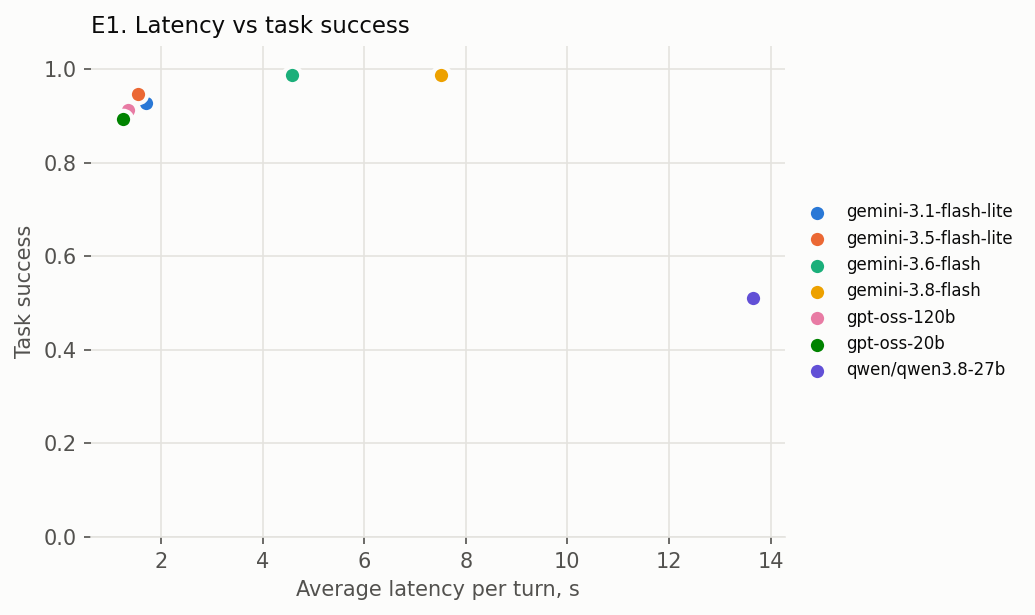
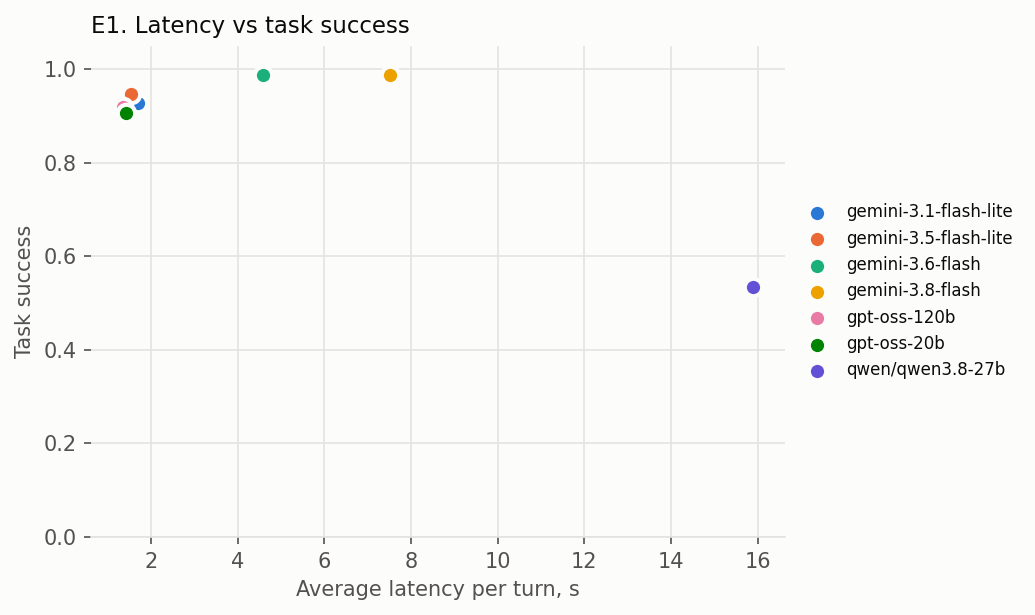
E1: complete the Groq repeat (gpt-oss 74/74, qwen 71/74)
Free-tier daily limits split the run over two days; qwen stopped before
O-03..O-05 because Groq delayed its responses by minutes. Summaries, charts
and the results README updated.

diff --git a/BookingSystem.Evaluation/results/README.md b/BookingSystem.Evaluation/results/README.md
@@ -108,7 +108,7 @@ dotnet run --project BookingSystem.Evaluation -- rescore
 
 74 сценарії (simple 15, incomplete 12, constraints 10, multi-turn 10, faq 10, relative-dates 6, booking 6,
 out-of-scope 5), `temperature = 0.2`, `MaxAgentIterations = 5`, slot filling увімкнено, той самий системний промпт.
-Gemini — платний Tier 1 через OpenAI-сумісний ендпоінт, 3 повтори; Groq — free tier, 1 повтор.
+Gemini — платний Tier 1 через OpenAI-сумісний ендпоінт, 3 повтори; Groq — free tier, 1 повтор (прогін 18–19.11).
 Інструмент `search_rental_policies` працював у режимі `HybridAdaptive` (v2); для експериментів режим закріплено в
 `BookingSystem.Evaluation/appsettings.json`, тож зміна режиму на сайті на них не впливає.
 Ціни (`Ai:Pricing`, перевірено 2026-11-18): 3.8-flash і 3.6-flash — $0.75 / $3.75, 3.5-flash-lite — $0.30 / $2.50,
@@ -120,9 +120,9 @@ Gemini — платний Tier 1 через OpenAI-сумісний ендпоі
 | gemini-3.6-flash | 3 | 74 | **0.986 ± 0.000** | 0.986 ± 0.000 | 1.000 ± 0.000 | 1.000 ± 0.000 | 4.6 / 6.6 | 5 318 | 0.0071 |
 | gemini-3.5-flash-lite | 3 | 74 | 0.946 ± 0.000 | 0.973 ± 0.000 | 0.963 ± 0.000 | 1.000 ± 0.000 | 1.5 / 2.3 | 4 652 | 0.0021 |
 | gemini-3.1-flash-lite | 3 | 74 | 0.928 ± 0.008 | 0.968 ± 0.008 | 0.957 ± 0.000 | 0.972 ± 0.048 | 1.7 / 2.4 | 4 586 | 0.0016 |
-| gpt-oss-120b | 1 | 69 | 0.913 | 0.957 | 0.938 | 1.000 | 1.4 / 2.6 | 4 355 | 0 (free tier) |
-| gpt-oss-20b | 1 | 66 | 0.894 | 0.955 | 0.910 | 1.000 | 1.2 / 2.5 | 4 157 | 0 (free tier) |
-| qwen3.8-27b | 1 | 49 | 0.510 | 0.510 | 0.445 | 1.000 | 13.7 / 15.7 (медіана 0.8) | 3 694 | 0 (free tier) |
+| gpt-oss-120b | 1 | 74 | 0.919 | 0.959 | 0.938 | 1.000 | 1.3 / 2.7 | 4 221 | 0 (free tier) |
+| gpt-oss-20b | 1 | 74 | 0.905 | 0.959 | 0.913 | 1.000 | 1.4 / 3.0 | 4 137 | 0 (free tier) |
+| qwen3.8-27b | 1 | 71 | 0.535 | 0.549 | 0.422 | 1.000 | 15.9 / 55.3 (медіана 1.0) | 3 834 | 0 (free tier) |
 
 `± std` — стандартне відхилення за повторами (для 1 повтору не визначене). Invalid Call Rate (виконані виклики з
 невалідними аргументами) = 0 для всіх моделей: зі slot filling такі виклики перехоплюються до виконання.
@@ -136,19 +136,20 @@ Gemini — платний Tier 1 через OpenAI-сумісний ендпоі
 | gemini-3.6-flash | 1.00 | 1.00 | 1.00 | 1.00 | 1.00 | 1.00 | 0.83 | 1.00 |
 | gemini-3.5-flash-lite | 1.00 | 0.90 | 1.00 | 1.00 | 0.83 | 1.00 | 0.67 | 1.00 |
 | gemini-3.1-flash-lite | 1.00 | 1.00 | 0.97 | 1.00 | 0.83 | 1.00 | 0.33 | 1.00 |
-| gpt-oss-120b | 0.93 | 1.00 | 1.00 | 0.90 | 0.83 | 1.00 | 0.50 | — |
-| gpt-oss-20b | 0.87 | 1.00 | 1.00 | 0.80 | 0.67 | 1.00 | 0.67 | — |
-| qwen3.8-27b | 0.20 | 0.60 | 1.00 | 0.40 | 0.00 | — | — | — |
+| gpt-oss-120b | 0.93 | 1.00 | 1.00 | 0.90 | 0.83 | 1.00 | 0.50 | 1.00 |
+| gpt-oss-20b | 0.87 | 1.00 | 1.00 | 0.80 | 0.67 | 1.00 | 0.83 | 1.00 |
+| qwen3.8-27b | 0.20 | 0.60 | 1.00 | 0.40 | 0.17 | 0.80 | 0.33 | 1.00 (2 з 5) |
 
-«—» — сценарії цього типу модель ще не пройшла (див. обмеження Groq нижче).
+qwen3.8-27b пройшов 71 з 74 сценаріїв: out-of-scope O-03…O-05 не виконано (див. обмеження Groq нижче).
 
 **Обмеження та зміни методики (важливо для записки):**
 
-1. **Groq — 1 неповний повтор.** Free tier дає 200K токенів на день на модель, а повний прогін однієї моделі — ≈ 370–390K,
-   тому gpt-oss-120b пройшов 69, gpt-oss-20b — 66, qwen3.8-27b — 49 з 74 сценаріїв (сценарії йдуть по порядку,
-   тож faq, booking та out-of-scope покриті частково або зовсім ні). Прогін відновлюється тією самою командою.
-   Затримки Groq включають очікування через ліміт токенів на хвилину: у qwen один хід тривав 605 с,
-   тому середнє (13.7 с) непоказове, медіана — 0.8 с.
+1. **Groq — 1 повтор.** Free tier дає 200K токенів на день на модель, а повний прогін однієї моделі — ≈ 370–390K,
+   тому прогін зайняв два дні (18 і 19.11, продовжено тією самою командою). gpt-oss-120b і gpt-oss-20b пройшли всі
+   74 сценарії, qwen3.8-27b — 71: на останніх сценаріях Groq затримував відповіді qwen на хвилини (ліміти free tier),
+   тож прогін зупинено без O-03…O-05. Через один повтор std для Groq не визначене, і порівняння з Gemini
+   (3 повтори) менш надійне. Затримки Groq включають очікування через ліміти: у qwen окремі ходи тривали 300–600 с,
+   тому середнє (15.9 с) і p95 непоказові, медіана — 1.0 с.
 2. **Gemini 3 і `thought_signature`.** Перший smoke-прогін Gemini падав з HTTP 400: Gemini 3 вимагає повертати
    підпис міркувань разом із викликом інструмента, а OpenAI SDK його відкидає. Виправлено до основних прогонів
    (`GeminiThoughtSignatureHandler`); усі рядки E1/E2 записано вже з виправленням.
@@ -168,8 +169,8 @@ Gemini — платний Tier 1 через OpenAI-сумісний ендпоі
 
    | | 3.8-flash | 3.6-flash | 3.5-flash-lite | 3.1-flash-lite | gpt-oss-120b | gpt-oss-20b | qwen3.8-27b |
    |---|---|---|---|---|---|---|---|
-   | старий критерій | 0.937 | 0.878 | 0.838 | 0.797 | 0.855 | 0.758 | 0.408 |
-   | новий критерій | 0.986 | 0.986 | 0.946 | 0.928 | 0.913 | 0.894 | 0.510 |
+   | старий критерій | 0.937 | 0.878 | 0.838 | 0.797 | 0.865 | 0.784 | 0.465 |
+   | новий критерій | 0.986 | 0.986 | 0.946 | 0.928 | 0.919 | 0.905 | 0.535 |
 
    Порядок моделей за обома критеріями той самий.
 
@@ -179,9 +180,10 @@ Gemini — платний Tier 1 через OpenAI-сумісний ендпоі
    за майже однакової ціни.
 2. Lite-моделі Gemini лише на 4–6 п. п. гірші, але в 3–4 рази дешевші й у 2.7–5 разів швидші (1.5–1.7 с на хід).
    Їхні помилки зосереджені в бронюванні (booking 0.33–0.67) і відносних датах.
-3. gpt-oss-120b / 20b на безкоштовному Groq близькі до lite-моделей Gemini (0.91 / 0.89 на пройденій частині)
-   за найменшої затримки; повторів поки немає, тож різниця з lite-моделями в межах невизначеності.
-4. qwen3.8-27b для агента непридатний: у 23 з 37 сценаріїв, де потрібен інструмент, він відповідає без виклику
+3. gpt-oss-120b / 20b на безкоштовному Groq трохи поступаються lite-моделям Gemini (0.919 / 0.905 проти 0.946 / 0.928)
+   за порівнянної затримки (медіана 1.1–1.2 с); слабкі місця — бронювання і відносні дати. Повтор один, тож різниця
+   з lite-моделями в межах невизначеності.
+4. qwen3.8-27b для агента непридатний: у 31 з 56 сценаріїв, де потрібен інструмент, він відповідає без виклику
    і вигадує авто та ціни.
 5. Неповні запити всі моделі обробляють добре (Clarification ≈ 1.0). Лише раз за E1 модель вигадала відсутню дату:
    3.1-flash-lite на «I need a car from December 10» сама поставила повернення 11 грудня й виконала пошук.
